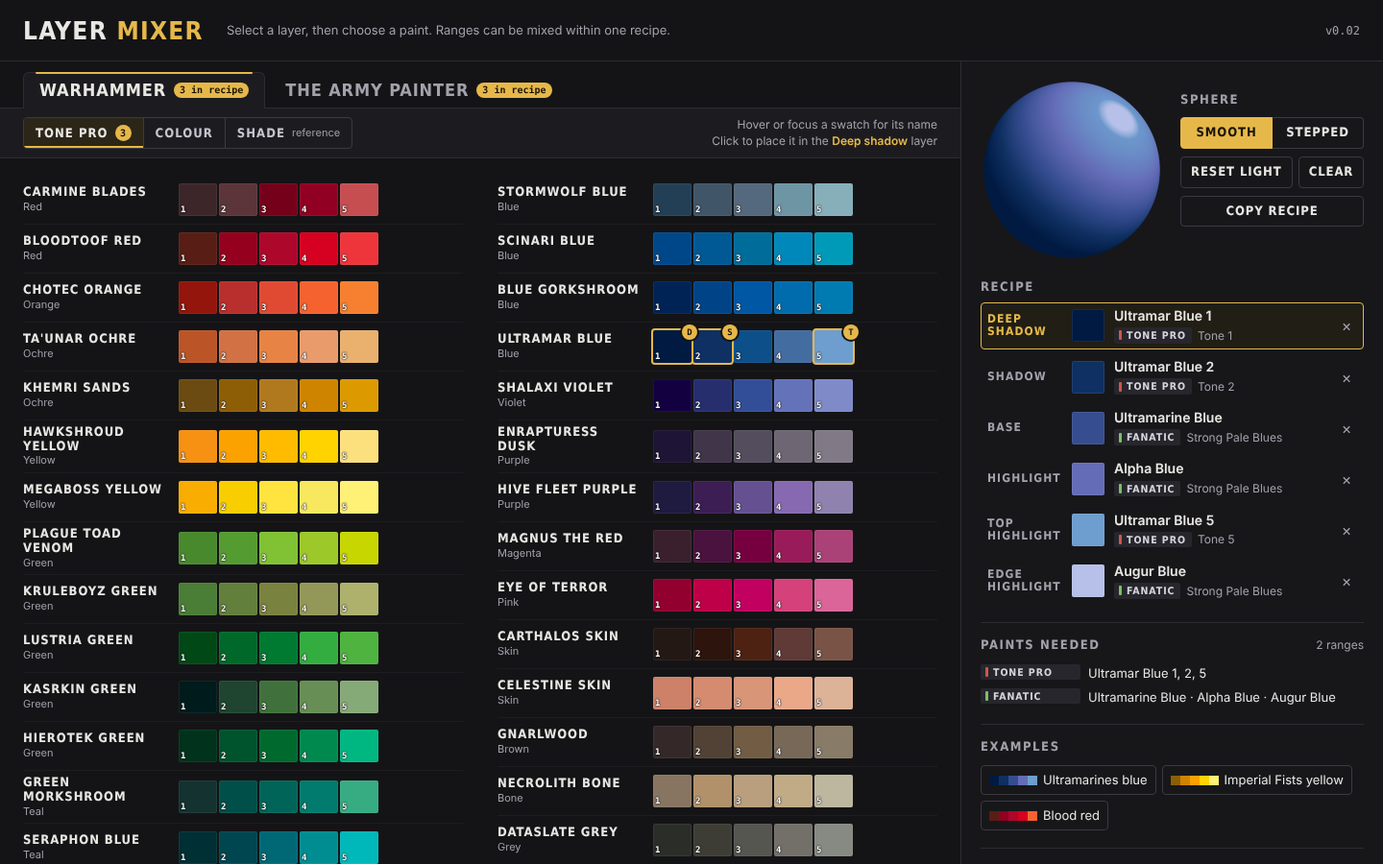
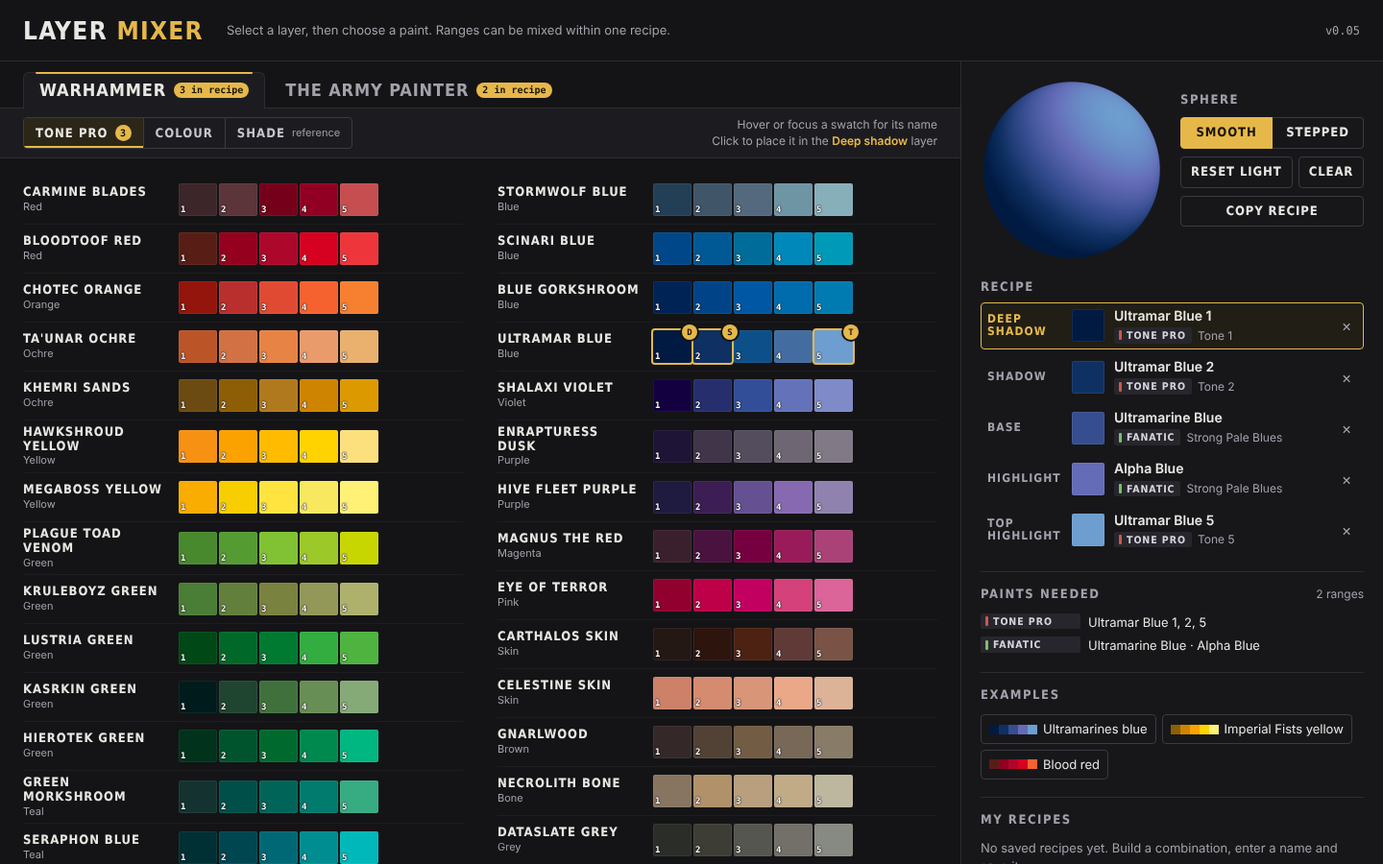
v0.05: remove edge highlight layer
Claude-Session: https://claude.ai/code/session_01JPW2BsCcmNcd3VEob4xsxp

Changed region(s): [[0.6875, 0.6533, 0.9688, 0.9956], [0.7812, 0.0933, 0.8438, 0.1556]]

diff --git a/dist/layer-mixer.html b/dist/layer-mixer.html
@@ -219,20 +219,20 @@ canvas#sphere.dragging{cursor:grabbing}
 
 <script>
 "use strict";
-const VERSION = "0.04";
+const VERSION = "0.05";
 const RANGE_DATA = [{"id":"tp","brand":"Warhammer","range":"Tone Pro","short":"Tone Pro","color":"#d0574a","numbered":true,"series":true,"rows":[{"label":"Carmine Blades","family":"Red","paints":[{"name":"Carmine Blades 1","hex":"#3c262a"},{"name":"Carmine Blades 2","hex":"#5b3539"},{"name":"Carmine Blades 3","hex":"#750019"},{"name":"Carmine Blades 4","hex":"#910022"},{"name":"Carmine Blades 5","hex":"#c64d50"}]},{"label":"Bloodtoof Red","family":"Red","paints":[{"name":"Bloodtoof Red 1","hex":"#581e16"},{"name":"Bloodtoof Red 2","hex":"#94001e"},{"name":"Bloodtoof Red 3","hex":"#ad072b"},{"name":"Bloodtoof Red 4","hex":"#d60020"},{"name":"Bloodtoof Red 5","hex":"#ef353c"}]},{"label":"Chotec Orange","family":"Orange","paints":[{"name":"Chotec Orange 1","hex":"#93150b"},{"name":"Chotec Orange 2","hex":"#b82f2d"},{"name":"Chotec Orange 3","hex":"#e04a33"},{"name":"Chotec Orange 4","hex":"#f56230"},{"name":"Chotec Orange 5","hex":"#f78030"}]},{"label":"Ta'unar Ochre","family":"Ochre","paints":[{"name":"Ta'unar Ochre 1","hex":"#bb5528"},{"name":"Ta'unar Ochre 2","hex":"#d27144"},{"name":"Ta'unar Ochre 3","hex":"#e78344"},{"name":"Ta'unar Ochre 4","hex":"#ea9b6b"},{"name":"Ta'unar Ochre 5","hex":"#e9b06e"}]},{"label":"Khemri Sands","family":"Ochre","paints":[{"name":"Khemri Sands 1","hex":"#6c4b12"},{"name":"Khemri Sands 2","hex":"#8d5e06"},{"name":"Khemri Sands 3","hex":"#b1791e"},{"name":"Khemri Sands 4","hex":"#cf8400"},{"name":"Khemri Sands 5","hex":"#dc9a00"}]},{"label":"Hawkshroud Yellow","family":"Yellow","paints":[{"name":"Hawkshroud Yellow 1","hex":"#f69113"},{"name":"Hawkshroud Yellow 2","hex":"#fba200"},{"name":"Hawkshroud Yellow 3","hex":"#febb00"},{"name":"Hawkshroud Yellow 4","hex":"#ffd300"},{"name":"Hawkshroud Yellow 5","hex":"#fde07e"}]},{"label":"Megaboss Yellow","family":"Yellow","paints":[{"name":"Megaboss Yellow 1","hex":"#f9ad00"},{"name":"Megaboss Yellow 2","hex":"#f8ce00"},{"name":"Megaboss Yellow 3","hex":"#ffe440"},{"name":"Megaboss Yellow 4","hex":"#f8e85f"},{"name":"Megaboss Yellow 5","hex":"#fff175"}]},{"label":"Plague Toad Venom","family":"Green","paints":[{"name":"Plague Toad Venom 1","hex":"#49892d"},{"name":"Plague Toad Venom 2","hex":"#549b32"},{"name":"Plague Toad Venom 3","hex":"#80c234"},{"name":"Plague Toad Venom 4","hex":"#9cc829"},{"name":"Plague Toad Venom 5","hex":"#c8d600"}]},{"label":"Kruleboyz Green","family":"Green","paints":[{"name":"Kruleboyz Green 1","hex":"#4a7d36"},{"name":"Kruleboyz Green 2","hex":"#627f3c"},{"name":"Kruleboyz Green 3","hex":"#7a823f"},{"name":"Kruleboyz Green 4","hex":"#939859"},{"name":"Kruleboyz Green 5","hex":"#aeb16c"}]},{"label":"Lustria Green","family":"Green","paints":[{"name":"Lustria Green 1","hex":"#004816"},{"name":"Lustria Green 2","hex":"#006929"},{"name":"Lustria Green 3","hex":"#007931"},{"name":"Lustria Green 4","hex":"#34ad40"},{"name":"Lustria Green 5","hex":"#4eb33f"}]},{"label":"Kasrkin Green","family":"Green","paints":[{"name":"Kasrkin Green 1","hex":"#001b1b"},{"name":"Kasrkin Green 2","hex":"#1f4530"},{"name":"Kasrkin Green 3","hex":"#40713c"},{"name":"Kasrkin Green 4","hex":"#678e55"},{"name":"Kasrkin Green 5","hex":"#86a978"}]},{"label":"Hierotek Green","family":"Green","paints":[{"name":"Hierotek Green 1","hex":"#00321c"},{"name":"Hierotek Green 2","hex":"#00542d"},{"name":"Hierotek Green 3","hex":"#006a2e"},{"name":"Hierotek Green 4","hex":"#00894e"},{"name":"Hierotek Green 5","hex":"#00b681"}]},{"label":"Green Morkshroom","family":"Teal","paints":[{"name":"Green Morkshroom 1","hex":"#143230"},{"name":"Green Morkshroom 2","hex":"#004f48"},{"name":"Green Morkshroom 3","hex":"#006458"},{"name":"Green Morkshroom 4","hex":"#007b6d"},{"name":"Green Morkshroom 5","hex":"#37ac83"}]},{"label":"Seraphon Blue","family":"Teal","paints":[{"name":"Seraphon Blue 1","hex":"#002f34"},{"name":"Seraphon Blue 2","hex":"#004650"},{"name":"Seraphon Blue 3","hex":"#006874"},{"name":"Seraphon Blue 4","hex":"#008d92"},{"name":"Seraphon Blue 5","hex":"#00b7b9"}]},{"label":"Craventhrone Cloak","family":"Blue","paints":[{"name":"Craventhrone Cloak 1","hex":"#08232e"},{"name":"Craventhrone Cloak 2","hex":"#12373e"},{"name":"Craventhrone Cloak 3","hex":"#164858"},{"name":"Craventhrone Cloak 4","hex":"#41717d"},{"name":"Craventhrone Cloak 5","hex":"#598a8e"}]},{"label":"Stormwolf Blue","family":"Blue","paints":[{"name":"Stormwolf Blue 1","hex":"#233f55"},{"name":"Stormwolf Blue 2","hex":"#405568"},{"name":"Stormwolf Blue 3","hex":"#54697d"},{"name":"Stormwolf Blue 4","hex":"#6e95a4"},{"name":"Stormwolf Blue 5","hex":"#87afb9"}]},{"label":"Scinari Blue","family":"Blue","paints":[{"name":"Scinari Blue 1","hex":"#004789"},{"name":"Scinari Blue 2","hex":"#005895"},{"name":"Scinari Blue 3","hex":"#006c9a"},{"name":"Scinari Blue 4","hex":"#0088bb"},{"name":"Scinari Blue 5","hex":"#009ab9"}]},{"label":"Blue Gorkshroom","family":"Blue","paints":[{"name":"Blue Gorkshroom 1","hex":"#002356"},{"name":"Blue Gorkshroom 2","hex":"#004487"},{"name":"Blue Gorkshroom 3","hex":"#0057a3"},{"name":"Blue Gorkshroom 4","hex":"#006cad"},{"name":"Blue Gorkshroom 5","hex":"#007bb2"}]},{"label":"Ultramar Blue","family":"Blue","paints":[{"name":"Ultramar Blue 1","hex":"#001a42"},{"name":"Ultramar Blue 2","hex":"#0f3062"},{"name":"Ultramar Blue 3","hex":"#0d4f88"},{"name":"Ultramar Blue 4","hex":"#436ca1"},{"name":"Ultramar Blue 5","hex":"#6d9ecf"}]},{"label":"Shalaxi Violet","family":"Violet","paints":[{"name":"Shalaxi Violet 1","hex":"#130040"},{"name":"Shalaxi Violet 2","hex":"#262e6d"},{"name":"Shalaxi Violet 3","hex":"#324e99"},{"name":"Shalaxi Violet 4","hex":"#6472b9"},{"name":"Shalaxi Violet 5","hex":"#7e8bc8"}]},{"label":"Enrapturess Dusk","family":"Purple","paints":[{"name":"Enrapturess Dusk 1","hex":"#1e1435"},{"name":"Enrapturess Dusk 2","hex":"#413549"},{"name":"Enrapturess Dusk 3","hex":"#534d5e"},{"name":"Enrapturess Dusk 4","hex":"#6e6773"},{"name":"Enrapturess Dusk 5","hex":"#817a86"}]},{"label":"Hive Fleet Purple","family":"Purple","paints":[{"name":"Hive Fleet Purple 1","hex":"#1e1a40"},{"name":"Hive Fleet Purple 2","hex":"#3c1e54"},{"name":"Hive Fleet Purple 3","hex":"#655192"},{"name":"Hive Fleet Purple 4","hex":"#8769b1"},{"name":"Hive Fleet Purple 5","hex":"#8f82ae"}]},{"label":"Magnus the Red","family":"Magenta","paints":[{"name":"Magnus the Red 1","hex":"#3a202d"},{"name":"Magnus the Red 2","hex":"#4a123e"},{"name":"Magnus the Red 3","hex":"#76003f"},{"name":"Magnus the Red 4","hex":"#9a1b59"},{"name":"Magnus the Red 5","hex":"#aa4277"}]},{"label":"Eye of Terror","family":"Pink","paints":[{"name":"Eye of Terror 1","hex":"#920030"},{"name":"Eye of Terror 2","hex":"#bd0047"},{"name":"Eye of Terror 3","hex":"#c20060"},{"name":"Eye of Terror 4","hex":"#d4417b"},{"name":"Eye of Terror 5","hex":"#db6499"}]},{"label":"Carthalos Skin","family":"Skin","paints":[{"name":"Carthalos Skin 1","hex":"#241815"},{"name":"Carthalos Skin 2","hex":"#2d140c"},{"name":"Carthalos Skin 3","hex":"#4e2212"},{"name":"Carthalos Skin 4","hex":"#5f3a37"},{"name":"Carthalos Skin 5","hex":"#795346"}]},{"label":"Celestine Skin","family":"Skin","paints":[{"name":"Celestine Skin 1","hex":"#cd8169"},{"name":"Celestine Skin 2","hex":"#d58b70"},{"name":"Celestine Skin 3","hex":"#d99578"},{"name":"Celestine Skin 4","hex":"#eaa889"},{"name":"Celestine Skin 5","hex":"#ddb398"}]},{"label":"Gnarlwood","family":"Brown","paints":[{"name":"Gnarlwood 1","hex":"#342928"},{"name":"Gnarlwood 2","hex":"#514235"},{"name":"Gnarlwood 3","hex":"#725c44"},{"name":"Gnarlwood 4","hex":"#776857"},{"name":"Gnarlwood 5","hex":"#887b67"}]},{"label":"Necrolith Bone","family":"Bone","paints":[{"name":"Necrolith Bone 1","hex":"#877561"},{"name":"Necrolith Bone 2","hex":"#b0916a"},{"name":"Necrolith Bone 3","hex":"#b99f7d"},{"name":"Necrolith Bone 4","hex":"#c1ab86"},{"name":"Necrolith Bone 5","hex":"#bcb79e"}]},{"label":"Dataslate Grey","family":"Grey","paints":[{"name":"Dataslate Grey 1","hex":"#2b2d28"},{"name":"Dataslate Grey 2","hex":"#3e3d35"},{"name":"Dataslate Grey 3","hex":"#555650"},{"name":"Dataslate Grey 4","hex":"#737069"},{"name":"Dataslate Grey 5","hex":"#878983"}]},{"label":"Blackstone Void","family":"Grey","paints":[{"name":"Blackstone Void 1","hex":"#000208"},{"name":"Blackstone Void 2","hex":"#4e5458"},{"name":"Blackstone Void 3","hex":"#6e7074"},{"name":"Blackstone Void 4","hex":"#9b9d9f"},{"name":"Blackstone Void 5","hex":"#ffffff"}]}]},{"id":"wc","brand":"Warhammer","range":"Colour","short":"Colour","color":"#5b9bd5","rows":[{"label":"Yellow","paints":[{"name":"Averland Sunset","hex":"#c88637","type":"Base"},{"name":"Yriel Yellow","hex":"#f5a114","type":"Layer"},{"name":"Flash Gitz Yellow","hex":"#f7ba0a","type":"Layer"},{"name":"Phalanx Yellow","hex":"#f8d229","type":"Layer"},{"name":"Dorn Yellow","hex":"#f2da87","type":"Layer"}]},{"label":"Orange","paints":[{"name":"Jokaero Orange","hex":"#bd6240","type":"Base"},{"name":"Trollslayer Orange","hex":"#e4491a","type":"Layer"},{"name":"Fire Dragon Bright","hex":"#f36b2a","type":"Layer"},{"name":"Lugganath Orange","hex":"#f79069","type":"Layer"}]},{"label":"Red","paints":[{"name":"Barak-Nar Burgundy","hex":"#351e28","type":"Base"},{"name":"Gal Vorbak Red","hex":"#421a20","type":"Base"},{"name":"Khorne Red","hex":"#612025","type":"Base"},{"name":"Word Bearers Red","hex":"#6a2220","type":"Layer"},{"name":"Mephiston Red","hex":"#972c28","type":"Base"},{"name":"Wazdakka Red","hex":"#a6383e","type":"Layer"},{"name":"Evil Sunz Scarlet","hex":"#b72a2c","type":"Layer"},{"name":"Squig Orange","hex":"#b7574d","type":"Layer"},{"name":"Wild Rider Red","hex":"#de3d36","type":"Layer"}]},{"label":"Pink","paints":[{"name":"Screamer Pink","hex":"#5c1c30","type":"Base"},{"name":"Perisher Pink","hex":"#a6414f","type":"Base/Layer"},{"name":"Pink Horror","hex":"#ba4957","type":"Layer"},{"name":"Emperor's Children","hex":"#e6659d","type":"Layer"},{"name":"Fulgrim Pink","hex":"#f2ade3","type":"Layer"}]},{"label":"Purple","paints":[{"name":"Naggaroth Night","hex":"#201a31","type":"Base"},{"name":"Phoenician Purple","hex":"#2f2346","type":"Base"},{"name":"Xereus Purple","hex":"#382445","type":"Layer"},{"name":"Daemonette Hide","hex":"#4c445d","type":"Base"},{"name":"Genestealer Purple","hex":"#734e93","type":"Layer"},{"name":"Warpfiend Grey","hex":"#645c74","type":"Base/Layer"},{"name":"Kakophoni Purple","hex":"#996da2","type":"Layer"},{"name":"Slaanesh Grey","hex":"#897f98","type":"Layer"},{"name":"Dechala Lilac","hex":"#ae99db","type":"Layer"}]},{"label":"Blue","paints":[{"name":"Night Lords Blue","hex":"#101827","type":"Base"},{"name":"Kantor Blue","hex":"#132034","type":"Base"},{"name":"Macragge Blue","hex":"#1a2f67","type":"Base"},{"name":"Altdorf Guard Blue","hex":"#243e7f","type":"Layer"},{"name":"Alaitoc Blue","hex":"#12446e","type":"Layer"},{"name":"Caledor Sky","hex":"#034a96","type":"Base"},{"name":"Hoeth Blue","hex":"#035f9f","type":"Layer"},{"name":"Teclis Blue","hex":"#0574bb","type":"Layer"},{"name":"Calgar Blue","hex":"#4d70c3","type":"Layer"},{"name":"Lothern Blue","hex":"#3d9ac8","type":"Layer"},{"name":"Baharroth Blue","hex":"#37b6d0","type":"Layer"},{"name":"Blue Horror","hex":"#92b7d4","type":"Layer"}]},{"label":"Blue-grey","paints":[{"name":"Dark Reaper","hex":"#2a3740","type":"Layer"},{"name":"The Fang","hex":"#2f3e58","type":"Base"},{"name":"Thunderhawk Blue","hex":"#2e4b59","type":"Layer"},{"name":"Russ Grey","hex":"#4d6681","type":"Layer"},{"name":"Fenrisian Grey","hex":"#5e7c95","type":"Layer"}]},{"label":"Turquoise","paints":[{"name":"Incubi Darkness","hex":"#13262b","type":"Base"},{"name":"Stegadon Scale Green","hex":"#1c2e3a","type":"Base"},{"name":"Kabalite Green","hex":"#014a42","type":"Layer"},{"name":"Thousand Sons Blue","hex":"#014c73","type":"Base"},{"name":"Sotek Green","hex":"#01566b","type":"Layer"},{"name":"Ahriman Blue","hex":"#00667e","type":"Layer"},{"name":"Sybarite Green","hex":"#299072","type":"Layer"},{"name":"Temple Guard Blue","hex":"#0197b8","type":"Layer"}]},{"label":"Dark green","paints":[{"name":"Nocturne Green","hex":"#1c2120","type":"Base"},{"name":"Caliban Green","hex":"#162d28","type":"Base"},{"name":"Vulkan Green","hex":"#222f25","type":"Layer"},{"name":"Loren Forest","hex":"#444e36","type":"Layer"},{"name":"Warpstone Glow","hex":"#05612e","type":"Layer"},{"name":"Moot Green","hex":"#5f9d35","type":"Layer"},{"name":"Gauss Blaster Green","hex":"#80d6bd","type":"Layer"}]},{"label":"Grey-green","paints":[{"name":"Lupercal Green","hex":"#122e32","type":"Base"},{"name":"Sons of Horus Green","hex":"#325257","type":"Layer"}]},{"label":"Orc green","paints":[{"name":"Waaagh! Flesh","hex":"#31473a","type":"Base"},{"name":"Warboss Green","hex":"#486d43","type":"Layer"},{"name":"Orruk Flesh","hex":"#7f8c51","type":"Base"},{"name":"Skarsnik Green","hex":"#779459","type":"Layer"}]},{"label":"Olive","paints":[{"name":"Castellan Green","hex":"#303324","type":"Base"},{"name":"Deathworld Forest","hex":"#4e4a2f","type":"Base"},{"name":"Death Guard Green","hex":"#666547","type":"Base"},{"name":"Elysian Green","hex":"#6c6b33","type":"Layer"},{"name":"Straken Green","hex":"#686d4a","type":"Layer"},{"name":"Nurgling Green","hex":"#83895b","type":"Layer"},{"name":"Ogryn Camo","hex":"#a19358","type":"Layer"}]},{"label":"Ochre","paints":[{"name":"XV-88","hex":"#79573b","type":"Base"},{"name":"Balor Brown","hex":"#996426","type":"Layer"},{"name":"Tau Light Ochre","hex":"#c67e4a","type":"Layer"}]},{"label":"Khaki","paints":[{"name":"Death Korps Drab","hex":"#2b2b25","type":"Base"},{"name":"Gorthor Brown","hex":"#5b3e37","type":"Layer"},{"name":"Steel Legion Drab","hex":"#685342","type":"Base"},{"name":"Baneblade Brown","hex":"#766356","type":"Layer"},{"name":"Tallarn Sand","hex":"#856c4d","type":"Layer"},{"name":"Hobgrot Hide","hex":"#997949","type":"Base"},{"name":"Krieg Khaki","hex":"#aca97a","type":"Layer"}]},{"label":"Brown","paints":[{"name":"Rhinox Hide","hex":"#211312","type":"Base"},{"name":"Thondia Brown","hex":"#30221d","type":"Base"},{"name":"Doombull Brown","hex":"#471a14","type":"Layer"},{"name":"Dryad Bark","hex":"#342928","type":"Base"},{"name":"Mournfang Brown","hex":"#533221","type":"Base"},{"name":"Skrag Brown","hex":"#894025","type":"Layer"},{"name":"Tuskgor Fur","hex":"#8f4338","type":"Layer"},{"name":"Deathclaw Brown","hex":"#a35637","type":"Layer"}]},{"label":"Bone","paints":[{"name":"Karak Stone","hex":"#96816b","type":"Layer"},{"name":"Zandri Dust","hex":"#9d8063","type":"Base"},{"name":"Zamesi Desert","hex":"#b38248","type":"Layer"},{"name":"Morghast Bone","hex":"#bca184","type":"Base"},{"name":"Ushabti Bone","hex":"#c0a983","type":"Layer"},{"name":"Wraithbone","hex":"#cac0af","type":"Base"},{"name":"Screaming Skull","hex":"#d2c0a2","type":"Layer"}]},{"label":"Skin","paints":[{"name":"Catachan Flesh","hex":"#392520","type":"Base"},{"name":"Bloodreaver Flesh","hex":"#4e2e2a","type":"Layer"},{"name":"Knight-Questor Flesh","hex":"#704a42","type":"Layer"},{"name":"Bugman's Glow","hex":"#895955","type":"Base"},{"name":"Ratskin Flesh","hex":"#b35d3d","type":"Base"},{"name":"Cadian Fleshtone","hex":"#ab6f5d","type":"Layer"},{"name":"Rakarth Flesh","hex":"#948278","type":"Base"},{"name":"Bestigor Flesh","hex":"#d6793e","type":"Layer"},{"name":"Ionrach Skin","hex":"#a29f84","type":"Base"},{"name":"Kislev Flesh","hex":"#c99370","type":"Layer"},{"name":"Ungor Flesh","hex":"#de9652","type":"Layer"},{"name":"Deepkin Flesh","hex":"#b7bcad","type":"Layer"},{"name":"Flayed One Flesh","hex":"#d1b89a","type":"Layer"},{"name":"Pallid Wych Flesh","hex":"#d3c6be","type":"Layer"}]},{"label":"Black, grey & white","paints":[{"name":"Abaddon Black","hex":"#171516","type":"Base"},{"name":"Corvus Black","hex":"#181c20","type":"Base"},{"name":"Eshin Grey","hex":"#2e3035","type":"Layer"},{"name":"Skavenblight Dinge","hex":"#363639","type":"Layer"},{"name":"Mechanicus Standard Grey","hex":"#414a51","type":"Base"},{"name":"Stormvermin Fur","hex":"#565551","type":"Layer"},{"name":"Dawnstone","hex":"#5b5f69","type":"Layer"},{"name":"Administratum Grey","hex":"#898e92","type":"Layer"},{"name":"Grey Seer","hex":"#9ea2a3","type":"Base"},{"name":"Celestra Grey","hex":"#96a4a7","type":"Base"},{"name":"Corax White","hex":"#b7bcc1","type":"Base"},{"name":"Ulthuan Grey","hex":"#c2cacd","type":"Layer"},{"name":"Ceramite White","hex":"#e9edef","type":"Base/Layer"},{"name":"White Scar","hex":"#ebeff0","type":"Layer"}]},{"label":"Silver & steel","paints":[{"name":"Iron Warriors","hex":"#3d3b39","type":"Base","info":true},{"name":"Leadbelcher","hex":"#6c6b69","type":"Base","info":true},{"name":"Iron Hands Steel","hex":"#868584","type":"Base","info":true},{"name":"Grey Knights Steel","hex":"#8499a9","type":"Base","info":true},{"name":"Ironbreaker","hex":"#96979b","type":"Layer","info":true},{"name":"Runefang Steel","hex":"#a6aab0","type":"Layer","info":true},{"name":"Stormhost Silver","hex":"#afb3b8","type":"Layer","info":true}],"family":"Metallic"},{"label":"Gold & brass","paints":[{"name":"Balthasar Gold","hex":"#7b4536","type":"Base","info":true},{"name":"Gehenna's Gold","hex":"#9e5210","type":"Layer","info":true},{"name":"Runelord Brass","hex":"#9e7c67","type":"Base","info":true},{"name":"Retributor Armour","hex":"#bd7c2f","type":"Base","info":true},{"name":"Liberator Gold","hex":"#b18d5c","type":"Layer","info":true},{"name":"Skullcrusher Brass","hex":"#c98538","type":"Layer","info":true},{"name":"Auric Armour Gold","hex":"#c38b31","type":"Layer","info":true},{"name":"Canoptek Alloy","hex":"#bda795","type":"Layer","info":true}],"family":"Metallic"},{"label":"Bronze & copper","paints":[{"name":"Warplock Bronze","hex":"#231110","type":"Base","info":true},{"name":"Castellax Bronze","hex":"#523423","info":true},{"name":"Screaming Bell","hex":"#87341a","type":"Base","info":true},{"name":"Brass Scorpion","hex":"#a0593b","type":"Layer","info":true},{"name":"Hashut Copper","hex":"#aa6235","type":"Layer","info":true},{"name":"Sycorax Bronze","hex":"#a67764","type":"Layer","info":true},{"name":"Fulgurite Copper","hex":"#c3743c","type":"Layer","info":true}],"family":"Metallic"}]},{"id":"ws","brand":"Warhammer","range":"Shade","short":"Shade","color":"#c98bd6","info":true,"translucent":true,"rows":[{"label":"Shades","paints":[{"name":"Nuln Oil Gloss","hex":"#1f1f22"},{"name":"Carroburg Crimson","hex":"#54232e"},{"name":"Drakenhof Nightshade","hex":"#34414c"},{"name":"Agrax Earthshade","hex":"#563d2f"},{"name":"Berserker Bloodshade","hex":"#683b34"},{"name":"Cryptek Armourshade Gloss","hex":"#5a4a30"},{"name":"Coelia Greenshade","hex":"#305655"},{"name":"Druchii Violet","hex":"#6c426f"},{"name":"Targor Rageshade","hex":"#694f4f"},{"name":"Athonian Camoshade","hex":"#695731"},{"name":"Reikland Fleshshade Gloss","hex":"#8a4a2a"},{"name":"Poxwalker","hex":"#3b6c57"},{"name":"Nuln Oil","hex":"#6e6461"},{"name":"Tyran Blue","hex":"#346cc4"},{"name":"Reikland Fleshshade","hex":"#a6654b"},{"name":"Kroak Green","hex":"#757d52"},{"name":"Biel-Tan Green","hex":"#46884b"},{"name":"Agrax Earthshade Gloss","hex":"#997564"},{"name":"Soulblight Grey","hex":"#888180"},{"name":"Fuegan Orange","hex":"#e55e28"},{"name":"Seraphim Sepia","hex":"#bf7a48"},{"name":"Casandora Yellow","hex":"#eb841b"},{"name":"Mortarion Grime","hex":"#c7a776"}]}]},{"id":"wf","brand":"The Army Painter","range":"Warpaints Fanatic","short":"Fanatic","color":"#7cbf6a","series":true,"rows":[{"label":"Yellows","paints":[{"name":"Sunburst Ochre","hex":"#a75525"},{"name":"Demigod Flames","hex":"#c77c3f"},{"name":"Fiendish Yellow","hex":"#dd9838"},{"name":"Daemonic Yellow","hex":"#efb72a"},{"name":"Warped Yellow","hex":"#f3c541"},{"name":"Space Dust","hex":"#f9d672"},{"name":"Ice Yellow","hex":"#f0dda4"}]},{"label":"Oranges","paints":[{"name":"Molten Lava","hex":"#ee4527"},{"name":"Burning Ore","hex":"#f3562b"},{"name":"Lava Orange","hex":"#eb6932"},{"name":"Flickering Flame","hex":"#ec772d"},{"name":"Glowing Inferno","hex":"#f18d2a"},{"name":"Inner Light","hex":"#fbac38"}]},{"label":"Warm Reds","paints":[{"name":"Resplendent Red","hex":"#bd3933"},{"name":"Angelic Red","hex":"#e93f38"},{"name":"Legendary Red","hex":"#ef574b"},{"name":"Sacred Scarlet","hex":"#fd5e55"},{"name":"Violent Vermilion","hex":"#fc776a"},{"name":"Raging Rouge","hex":"#fa8e7f"}]},{"label":"Cool Reds","paints":[{"name":"Basilisk Red","hex":"#701c2f"},{"name":"Wyvern Fury","hex":"#91192e"},{"name":"Dragon Red","hex":"#a90d24"},{"name":"Pure Red","hex":"#d6041f"},{"name":"Blood Chalice","hex":"#cd3647"},{"name":"Raging Rose","hex":"#e74866"}]},{"label":"Pinks","paints":[{"name":"Wicked Pink","hex":"#bb236b"},{"name":"Impish Rouge","hex":"#d84696"},{"name":"Pixie Pink","hex":"#e569af"},{"name":"Weird Elixir","hex":"#e88cc0"},{"name":"Pink Potion","hex":"#eba3d1"},{"name":"Doomfire Drab","hex":"#dfc3d9"}]},{"label":"Purples","paints":[{"name":"Terrestrial Titan","hex":"#35313b"},{"name":"Alien Purple","hex":"#664e7f"},{"name":"Cultist Purple","hex":"#8862a1"},{"name":"Hexed Violet","hex":"#ae8fc1"},{"name":"Violet Coven","hex":"#c1a6d0"},{"name":"Kraken Lavender","hex":"#f4dcfb"}]},{"label":"Magentas","paints":[{"name":"Diabolic Plum","hex":"#5d3163"},{"name":"Magecast Magenta","hex":"#602a69"},{"name":"Warlock Magenta","hex":"#7a2e79"},{"name":"Spellbound Fuchsia","hex":"#a63585"},{"name":"Enchanted Pink","hex":"#b75097"},{"name":"Diviner Light","hex":"#e59ccd"}]},{"label":"Desaturated Violets","paints":[{"name":"Blanched Berry","hex":"#4d2027"},{"name":"Mulled Berry","hex":"#63323e"},{"name":"Moldy Wine","hex":"#763e4b"},{"name":"Elder Flower","hex":"#b66387"},{"name":"Forbidden Fruit","hex":"#ce93ad"},{"name":"Figgy Pink","hex":"#d9a7bd"},{"name":"Wilted Rose","hex":"#d5abb9"}]},{"label":"Desaturated Blue-Greys","paints":[{"name":"Night Sky","hex":"#323e4f"},{"name":"Thunderous Blue","hex":"#44516a"},{"name":"Stratos Blue","hex":"#536887"},{"name":"Wolf Grey","hex":"#6e85a5"},{"name":"Runic Cobalt","hex":"#8fa2c2"},{"name":"Frost Blue","hex":"#acb7d3"}]},{"label":"Strong Pale Blues","paints":[{"name":"Triumphant Navy","hex":"#333c5e"},{"name":"Gothic Blue","hex":"#343f7a"},{"name":"Ultramarine Blue","hex":"#364d90"},{"name":"Alpha Blue","hex":"#646cb7"},{"name":"Baron Blue","hex":"#848ecb"},{"name":"Augur Blue","hex":"#b6c0e8"}]},{"label":"Vivid Blues","paints":[{"name":"Imperial Navy","hex":"#1b3d63"},{"name":"Regal Blue","hex":"#144590"},{"name":"Royal Blue","hex":"#024da9"},{"name":"Crystal Blue","hex":"#006fce"},{"name":"Arctic Gem","hex":"#46a3ed"},{"name":"Bright Sapphire","hex":"#89c4e4"}]},{"label":"Deep Green-Blues","paints":[{"name":"The Darkness","hex":"#252d37"},{"name":"Deep Ocean Blue","hex":"#2c4251"},{"name":"Abyssal Blue","hex":"#144e62"},{"name":"Tidal Blue","hex":"#216b84"},{"name":"Phalanx Blue","hex":"#348ea8"},{"name":"Shieldwall Blue","hex":"#55a5be"},{"name":"Aegis Aqua","hex":"#7cbdd3"}]},{"label":"Turquoises","paints":[{"name":"Deep Azure","hex":"#007680"},{"name":"Hydra Turquoise","hex":"#019eab"},{"name":"Turquoise Siren","hex":"#27a7ba"},{"name":"Aquamarine","hex":"#69c0cc"},{"name":"Neptune Glow","hex":"#93d2db"},{"name":"Marine Mist","hex":"#a9dad6"}]},{"label":"Teals","paints":[{"name":"Scarab Green","hex":"#274446"},{"name":"Temple Gate Teal","hex":"#1f6861"},{"name":"Pharaoh Guard","hex":"#258e7f"},{"name":"Talisman Teal","hex":"#00a38e"},{"name":"Aqua Alchemy","hex":"#2abcab"},{"name":"Amulet Aqua","hex":"#75dbc6"}]},{"label":"Deep Greens","paints":[{"name":"Blighted Green","hex":"#1f332d"},{"name":"Angel Green","hex":"#214840"},{"name":"Guardian Green","hex":"#24513f"},{"name":"Greenskin","hex":"#196b40"},{"name":"Eternal Hunt","hex":"#3e8d54"},{"name":"Wild Green","hex":"#5faf6f"},{"name":"Ferocious Green","hex":"#93ce98"}]},{"label":"Vibrant Greens","paints":[{"name":"Emerald Forest","hex":"#56b254"},{"name":"Leafy Green","hex":"#81c046"},{"name":"Rainforest","hex":"#a1cb39"},{"name":"Electric Lime","hex":"#b6cd33"},{"name":"Vivid Volt","hex":"#dce153"},{"name":"Afterglow","hex":"#d9d99c"}]},{"label":"Desaturated Cool Greens","paints":[{"name":"Evergreen Fog","hex":"#3a5954"},{"name":"Medieval Forest","hex":"#617d6f"},{"name":"Patagon Pine","hex":"#809484"},{"name":"Autumn Sage","hex":"#8da698"},{"name":"Forest Faun","hex":"#9fbba9"},{"name":"Mossy Green","hex":"#bcd0c4"}]},{"label":"Olive Greens","paints":[{"name":"Midnight Olive","hex":"#3b4034"},{"name":"Woodland Camo","hex":"#555c48"},{"name":"Army Green","hex":"#5b674f"},{"name":"Camouflage Green","hex":"#6a745c"},{"name":"Olive Drab","hex":"#717c65"},{"name":"Necrotic Flesh","hex":"#aca988"},{"name":"Grotesque Green","hex":"#baba96"}]},{"label":"Browns","paints":[{"name":"Brigandine Brown","hex":"#514a47"},{"name":"Bootstrap Brown","hex":"#5c4943"},{"name":"Leather Brown","hex":"#725144"},{"name":"Paratrooper Tan","hex":"#a47a67"},{"name":"Command Khaki","hex":"#bd9885"},{"name":"Urban Buff","hex":"#ceab9c"}]},{"label":"Ochres & Tans","paints":[{"name":"Tainted Garden","hex":"#554e31"},{"name":"Tundra Taupe","hex":"#655e49"},{"name":"Prairie Ochre","hex":"#7d6c43"},{"name":"Desert Yellow","hex":"#957745"},{"name":"Wasteland Clay","hex":"#b68947"},{"name":"Burnt Turf","hex":"#c5a161"},{"name":"Barren Dune","hex":"#dab77c"}]},{"label":"Light Neutrals","paints":[{"name":"Dusty Skull","hex":"#917f67"},{"name":"Tomb King Tan","hex":"#b1a285"},{"name":"Skeleton Bone","hex":"#c4b59a"},{"name":"Ancient Stone","hex":"#cdb9a8"},{"name":"Bony Spikes","hex":"#dfcab5"},{"name":"Pale Sand","hex":"#ebd9ca"}]},{"label":"Ruddy Browns","paints":[{"name":"Banshee Brown","hex":"#362120"},{"name":"Oak Brown","hex":"#493431"},{"name":"Tree Ancient","hex":"#533733"},{"name":"Dryad Brown","hex":"#674038"},{"name":"Fur Brown","hex":"#8b4c43"},{"name":"Ruddy Umber","hex":"#bb6b59"},{"name":"Buffed Hide","hex":"#ce8273"}]},{"label":"Rose Skin Tones","paints":[{"name":"Moonstone Skin","hex":"#c56b61"},{"name":"Agate Skin","hex":"#d0786e"},{"name":"Barbarian Flesh","hex":"#d98e76"},{"name":"Ruby Skin","hex":"#e09d96"},{"name":"Opal Skin","hex":"#efc4be"},{"name":"Pearl Skin","hex":"#fcdde1"}]},{"label":"Warm Skin Tones","paints":[{"name":"Carnelian Skin","hex":"#562f30"},{"name":"Tiger's Eye Skin","hex":"#824a4c"},{"name":"Topaz Skin","hex":"#c15e54"},{"name":"Jasper Skin","hex":"#cc7c78"},{"name":"Tourmaline Skin","hex":"#dd948e"},{"name":"Leopard Stone Skin","hex":"#eab7b9"}]},{"label":"Deep Skin Tones","paints":[{"name":"Obsidian Skin","hex":"#594f4f"},{"name":"Onyx Skin","hex":"#785d59"},{"name":"Mocca Skin","hex":"#8f7266"},{"name":"Amber Skin","hex":"#c6a080"},{"name":"Dorado Skin","hex":"#d7b8a4"},{"name":"Quartz Skin","hex":"#dac5b8"}]},{"label":"Black & Greys","paints":[{"name":"Matt Black","hex":"#161516"},{"name":"Ironclad Grey","hex":"#2e2e36"},{"name":"Deep Grey","hex":"#454753"},{"name":"Uniform Grey","hex":"#697682"},{"name":"Ash Grey","hex":"#979fa2"},{"name":"Company Grey","hex":"#b8c1c9"},{"name":"Brigade Grey","hex":"#d1d5db"}]},{"label":"Warm Greys & White","paints":[{"name":"Grey Castle","hex":"#939489"},{"name":"Gargoyle Grey","hex":"#a39f8e"},{"name":"Great Hall Grey","hex":"#bab7a8"},{"name":"Worn Stone","hex":"#d0cdbd"},{"name":"Brainmatter Beige","hex":"#e6e5da"},{"name":"Matt White","hex":"#f4f6f4"}]}]}];
 
 /* Paints are identified as "<range id>:<paint name>" so saved recipes survive reordering of the data files. */
-const SLOT_NAMES = ["Deep shadow","Shadow","Base","Highlight","Top highlight","Edge highlight"];
-const SLOT_ABBR = ["D","S","B","H","T","E"];
+const SLOT_NAMES = ["Deep shadow","Shadow","Base","Highlight","Top highlight"];
+const SLOT_ABBR = ["D","S","B","H","T"];
 const RANGE_COLORS = ["#d0574a","#7cbf6a","#5b9bd5","#c98bd6","#e0a84a","#4fb3a9"];
 const STORE_KEY = "layer-mixer-recipes-v2";
 const OLD_STORE_KEY = "tonepro-rezepte-v1";
 
 const PRESETS = [
-  {name:"Ultramarines blue", layers:["tp:Ultramar Blue 1","tp:Ultramar Blue 2","wf:Ultramarine Blue","wf:Alpha Blue","tp:Ultramar Blue 5","wf:Augur Blue"]},
-  {name:"Imperial Fists yellow", layers:["tp:Khemri Sands 2","tp:Khemri Sands 4","tp:Hawkshroud Yellow 2","tp:Hawkshroud Yellow 4","tp:Megaboss Yellow 5",null]},
-  {name:"Blood red", layers:["tp:Bloodtoof Red 1","tp:Carmine Blades 4","tp:Bloodtoof Red 3","tp:Bloodtoof Red 4","tp:Chotec Orange 4",null]}
+  {name:"Ultramarines blue", layers:["tp:Ultramar Blue 1","tp:Ultramar Blue 2","wf:Ultramarine Blue","wf:Alpha Blue","tp:Ultramar Blue 5"]},
+  {name:"Imperial Fists yellow", layers:["tp:Khemri Sands 2","tp:Khemri Sands 4","tp:Hawkshroud Yellow 2","tp:Hawkshroud Yellow 4","tp:Megaboss Yellow 5"]},
+  {name:"Blood red", layers:["tp:Bloodtoof Red 1","tp:Carmine Blades 4","tp:Bloodtoof Red 3","tp:Bloodtoof Red 4","tp:Chotec Orange 4"]}
 ];
 
 /* ---------- data index ---------- */
@@ -251,7 +251,8 @@ const BY_ID = Object.create(null);
 RANGES.forEach(r=>r.rows.forEach(w=>w.paints.forEach(p=>{ BY_ID[p.id]=p; })));
 const RANGE_BY_KEY = Object.fromEntries(RANGES.map(r=>[r.id,r]));
 
-let layers = [null,null,null,null,null,null];
+const EMPTY = ()=>SLOT_NAMES.map(()=>null);
+let layers = EMPTY();
 let active = 0;
 let stepped = false;
 let current = RANGES[0].id;
@@ -277,7 +278,7 @@ function lum(h){const [r,g,b]=hexToRgb(h).map(v=>{v/=255;return v<=.03928?v/12.9
 const rtag = key=>el("span",{class:"rtag",style:{"--rc":RANGE_BY_KEY[key].color}},[RANGE_BY_KEY[key].short]);
 const say = t=>{ $("#status").textContent=t; };
 const detail = p=> p.tone ? `Tone ${p.tone}` : p.type ? `${p.type} · ${p.row}` : p.row;
-const cleanLayers = ls=>{ const out=(Array.isArray(ls)?ls:[]).slice(0,6).map(id=>typeof id==="string"&&BY_ID[id]&&!BY_ID[id].info?id:null); while(out.length<6) out.push(null); return out; };
+const cleanLayers = ls=>{ const out=(Array.isArray(ls)?ls:[]).slice(0,SLOT_NAMES.length).map(id=>typeof id==="string"&&BY_ID[id]&&!BY_ID[id].info?id:null); while(out.length<SLOT_NAMES.length) out.push(null); return out; };
 
 /* ---------- brand tabs, range pills, chart ---------- */
 const brandOf = key=>BRANDS.find(b=>b.ranges.includes(key));
@@ -367,7 +368,7 @@ function pick(id){
   const slot=active;
   layers[slot]=id;
   const next=layers.findIndex((l,i)=>i>slot&&!l);
-  if(next!==-1) active=next; else if(slot<5) active=slot+1;
+  if(next!==-1) active=next; else if(slot<SLOT_NAMES.length-1) active=slot+1;
   render(); say("");
 }
 function load(ls){ layers=cleanLayers(ls); active=0; render(); say(""); }
@@ -449,15 +450,13 @@ function colorAt(cols,t){const n=cols.length;if(n===1)return cols[0];
 function drawSphere(){
   const W=cv.width,H=cv.height,R=W/2-6,cx=W/2,cy=H/2;
   ctx.clearRect(0,0,W,H);
-  const cols=layers.slice(0,5).filter(Boolean).map(id=>hexToRgb(BY_ID[id].hex));
+  const cols=layers.filter(Boolean).map(id=>hexToRgb(BY_ID[id].hex));
   if(!cols.length){ctx.strokeStyle="#3a3a42";ctx.setLineDash([10,8]);ctx.lineWidth=3;ctx.beginPath();ctx.arc(cx,cy,R,0,Math.PI*2);ctx.stroke();ctx.setLineDash([]);return;}
-  const spot=layers[5]?hexToRgb(BY_ID[layers[5]].hex):null;
   const img=ctx.createImageData(W,H),d=img.data;const L=light;
   for(let y=0;y<H;y++)for(let x=0;x<W;x++){
     const nx=(x+.5-cx)/R,ny=(y+.5-cy)/R,r2=nx*nx+ny*ny;if(r2>1)continue;
     const nz=Math.sqrt(1-r2);let t=nx*L[0]+ny*L[1]+nz*L[2];t=Math.max(0,Math.min(1,(t+0.35)/1.35));t=Math.pow(t,1.15);
     let c=colorAt(cols,t);
-    if(spot){const k=Math.min(1,Math.max(0,t-0.965)/0.035*1.6);c=[c[0]+(spot[0]-c[0])*k,c[1]+(spot[1]-c[1])*k,c[2]+(spot[2]-c[2])*k];}
     const edge=Math.min(1,(1-Math.sqrt(r2))*R/1.2),o=(y*W+x)*4;d[o]=c[0];d[o+1]=c[1];d[o+2]=c[2];d[o+3]=255*edge;}
   ctx.putImageData(img,0,0);
 }
@@ -511,7 +510,7 @@ $("#btn-copy").addEventListener("click",()=>{
   try{ navigator.clipboard.writeText(t).then(()=>say("Recipe copied to clipboard."),fallback); }catch(e){ fallback(); }
 });
 $("#btn-light").addEventListener("click",()=>setLight(...DEFAULT_LIGHT));
-$("#btn-clear").addEventListener("click",()=>{ layers=[null,null,null,null,null,null]; active=0; render(); say("Recipe cleared."); });
+$("#btn-clear").addEventListener("click",()=>{ layers=EMPTY(); active=0; render(); say("Recipe cleared."); });
 $("#mode-smooth").addEventListener("click",()=>setMode(false));
 $("#mode-steps").addEventListener("click",()=>setMode(true));
 

diff --git a/tests/run-tests.js b/tests/run-tests.js
@@ -51,7 +51,7 @@ const SRC = fs.readFileSync(path.resolve(__dirname, '../src/layer-mixer.html'), 
     assert.equal((await px(190, 190))[3], 0);
     assert.equal(await p.textContent('#lg-layer'), 'Deep shadow');
     const names = await p.locator('.slot .lname').allTextContents();
-    assert.deepEqual(names, ['Deep shadow','Shadow','Base','Highlight','Top highlight','Edge highlight']);
+    assert.deepEqual(names, ['Deep shadow','Shadow','Base','Highlight','Top highlight']);
   });
   await t('Fixed file name without version (recipes survive overwriting)', async () => { assert.equal(BUILT[0], 'layer-mixer.html'); });
   await t('Version shown, credit in footer', async () => { const v = await p.evaluate(() => VERSION); assert.match(v, /^\d+\.\d+$/); assert.equal(await p.textContent('#version'), 'v' + v); assert.equal(await p.textContent('.notes .credit'), `Layer Mixer v${v} · Vibecoded by Duempelhuber`); });
@@ -66,13 +66,11 @@ const SRC = fs.readFileSync(path.resolve(__dirname, '../src/layer-mixer.html'), 
     assert.equal(await p.locator('.inrec[data-k="wf"]').isHidden(), true);
     const c = await px(190, 190); assert.equal(c[3], 255);
   });
-  await t('Auto-advance runs through all six layers incl. edge highlight', async () => {
+  await t('Auto-advance runs through all five layers', async () => {
     await p.click('#btn-clear');
     for (const n of [1,2,3,4,5]) await p.click(sw(`tp:Ultramar Blue ${n}`));
-    assert.equal(await p.textContent('#lg-layer'), 'Edge highlight');
-    await p.click(sw('tp:Blackstone Void 5'));
-    assert.equal(await p.locator('.slot .pname').count(), 6);
-    assert.equal(await p.textContent('#lg-layer'), 'Edge highlight');
+    assert.equal(await p.locator('.slot .pname').count(), 5);
+    assert.equal(await p.textContent('#lg-layer'), 'Top highlight');
     await p.click('#btn-clear'); await p.click(sw('tp:Ultramar Blue 1'));
   });
   await t('Tab switch to Fanatic: 27 strips, 170 swatches, numbered, no extra text', async () => {
@@ -99,7 +97,7 @@ const SRC = fs.readFileSync(path.resolve(__dirname, '../src/layer-mixer.html'), 
     await p.click('#btn-clear');
     await p.click('#presets .chip:has-text("Ultramarines blue")');
     const items = await p.locator('#shop li span:not(.rtag)').allTextContents();
-    assert.deepEqual(items, ['Ultramar Blue 1, 2, 5', 'Ultramarine Blue · Alpha Blue · Augur Blue']);
+    assert.deepEqual(items, ['Ultramar Blue 1, 2, 5', 'Ultramarine Blue · Alpha Blue']);
     await p.click('#btn-clear'); await goRange('tp'); await p.click(sw('tp:Ultramar Blue 1')); await goRange('wf'); await p.click(sw('wf:Alpha Blue'));
   });
   await t('Arrow keys switch tabs and keep recipe marks', async () => {
@@ -130,8 +128,8 @@ const SRC = fs.readFileSync(path.resolve(__dirname, '../src/layer-mixer.html'), 
     assert.equal(await p.getAttribute('.slot[data-slot="1"]', 'aria-pressed'), 'true');
   });
   await t('Selecting a layer by keyboard', async () => {
-    await p.focus('.slot[data-slot="5"]'); await p.keyboard.press('Enter');
-    assert.equal(await p.textContent('#lg-layer'), 'Edge highlight');
+    await p.focus('.slot[data-slot="4"]'); await p.keyboard.press('Enter');
+    assert.equal(await p.textContent('#lg-layer'), 'Top highlight');
   });
 
   await t('All examples load with valid paints, dark → light', async () => {
@@ -140,13 +138,14 @@ const SRC = fs.readFileSync(path.resolve(__dirname, '../src/layer-mixer.html'), 
     for (const x of r) { assert(x.ok, x.n + ' has unknown paint'); for (let i = 1; i < x.l.length; i++) assert(x.l[i] > x.l[i - 1], x.n + ' not ascending'); }
     for (const x of r) { await p.click(`#presets .chip:has-text("${x.n}")`); assert((await filled()) >= 5, x.n); }
   });
-  await t('Edge highlight shows as glint in its own colour', async () => {
-    await p.click('#btn-clear'); await p.click(sw('tp:Dataslate Grey 1')); await p.click('.slot[data-slot="5"]'); await p.click(sw('tp:Blackstone Void 5'));
-    const c = await px(291, 80); assert(c[0] > 235 && c[1] > 235 && c[2] > 235, JSON.stringify(c));
+  await t('No glint: a single paint fills the whole sphere in its own colour', async () => {
+    await p.click('#btn-clear'); await p.click(sw('tp:Dataslate Grey 1'));
+    const c = await px(291, 80); assert(c[0] < 80 && c[1] < 80 && c[2] < 80, JSON.stringify(c));
   });
-  await t('Edge highlight is a normal layer (no "optional" label), picking sets no status text', async () => {
+  await t('Five layers, no edge highlight, picking sets no status text', async () => {
     assert.equal(await p.locator('.optional').count(), 0);
-    assert.equal(await p.locator('.slot').count(), 6);
+    assert.equal(await p.locator('.slot').count(), 5);
+    assert(!(await p.textContent('#recipe')).includes('Edge'));
     assert.equal(await p.textContent('#status'), '');
   });
   const bright = c => c[0] + c[1] + c[2];
@@ -193,7 +192,7 @@ const SRC = fs.readFileSync(path.resolve(__dirname, '../src/layer-mixer.html'), 
     await p.click('#presets .chip:has-text("Ultramarines blue")');
     await p.click('#btn-copy');
     const clip = await p.evaluate(() => navigator.clipboard.readText());
-    assert(clip.startsWith('Deep shadow: Ultramar Blue 1 (Warhammer Tone Pro)') && clip.includes('\nHighlight: Alpha Blue (The Army Painter Warpaints Fanatic)') && clip.includes('Edge highlight: Augur Blue'), clip);
+    assert(clip.startsWith('Deep shadow: Ultramar Blue 1 (Warhammer Tone Pro)') && clip.includes('\nHighlight: Alpha Blue (The Army Painter Warpaints Fanatic)') && clip.includes('Top highlight: Ultramar Blue 5') && !clip.includes('Edge'), clip);
   });
   await t('Clear all', async () => { await p.click('#btn-clear'); assert.equal(await filled(), 0); assert.equal((await px(190, 190))[3], 0); });
 
@@ -204,7 +203,7 @@ const SRC = fs.readFileSync(path.resolve(__dirname, '../src/layer-mixer.html'), 
     assert.equal(await p.locator('#saved img').count(), 0);
     await p.reload();
     assert.equal(await p.locator('#saved .chip').count(), 1);
-    await p.click('#saved .chip'); assert.equal(await filled(), 6);
+    await p.click('#saved .chip'); assert.equal(await filled(), 5);
     await p.click('#saved .del'); assert.equal(await p.locator('#saved .chip').count(), 0);
   });
   await t('Empty recipe is not saved', async () => {
@@ -221,7 +220,7 @@ const SRC = fs.readFileSync(path.resolve(__dirname, '../src/layer-mixer.html'), 
     await p.evaluate(() => { localStorage.clear(); localStorage.setItem('tonepro-rezepte-v1', JSON.stringify([{ name: 'Old one', layers: [['Ultramar Blue', 1], ['Ultramar Blue', 3], null, null, null, ['Blackstone Void', 5]] }])); });
     await p.reload(); await p.click('#saved .chip:has-text("Old one")');
     const names = await p.locator('.slot .pname').allTextContents();
-    assert.deepEqual(names, ['Ultramar Blue 1', 'Ultramar Blue 3', 'Blackstone Void 5']);
+    assert.deepEqual(names, ['Ultramar Blue 1', 'Ultramar Blue 3'], 'old edge highlight is dropped');
     await p.evaluate(() => localStorage.clear());
   });
 

diff --git a/src/layer-mixer.html b/src/layer-mixer.html
@@ -223,16 +223,16 @@ const VERSION = "/*@VERSION@*/";
 const RANGE_DATA = /*@DATA@*/[];
 
 /* Paints are identified as "<range id>:<paint name>" so saved recipes survive reordering of the data files. */
-const SLOT_NAMES = ["Deep shadow","Shadow","Base","Highlight","Top highlight","Edge highlight"];
-const SLOT_ABBR = ["D","S","B","H","T","E"];
+const SLOT_NAMES = ["Deep shadow","Shadow","Base","Highlight","Top highlight"];
+const SLOT_ABBR = ["D","S","B","H","T"];
 const RANGE_COLORS = ["#d0574a","#7cbf6a","#5b9bd5","#c98bd6","#e0a84a","#4fb3a9"];
 const STORE_KEY = "layer-mixer-recipes-v2";
 const OLD_STORE_KEY = "tonepro-rezepte-v1";
 
 const PRESETS = [
-  {name:"Ultramarines blue", layers:["tp:Ultramar Blue 1","tp:Ultramar Blue 2","wf:Ultramarine Blue","wf:Alpha Blue","tp:Ultramar Blue 5","wf:Augur Blue"]},
-  {name:"Imperial Fists yellow", layers:["tp:Khemri Sands 2","tp:Khemri Sands 4","tp:Hawkshroud Yellow 2","tp:Hawkshroud Yellow 4","tp:Megaboss Yellow 5",null]},
-  {name:"Blood red", layers:["tp:Bloodtoof Red 1","tp:Carmine Blades 4","tp:Bloodtoof Red 3","tp:Bloodtoof Red 4","tp:Chotec Orange 4",null]}
+  {name:"Ultramarines blue", layers:["tp:Ultramar Blue 1","tp:Ultramar Blue 2","wf:Ultramarine Blue","wf:Alpha Blue","tp:Ultramar Blue 5"]},
+  {name:"Imperial Fists yellow", layers:["tp:Khemri Sands 2","tp:Khemri Sands 4","tp:Hawkshroud Yellow 2","tp:Hawkshroud Yellow 4","tp:Megaboss Yellow 5"]},
+  {name:"Blood red", layers:["tp:Bloodtoof Red 1","tp:Carmine Blades 4","tp:Bloodtoof Red 3","tp:Bloodtoof Red 4","tp:Chotec Orange 4"]}
 ];
 
 /* ---------- data index ---------- */
@@ -251,7 +251,8 @@ const BY_ID = Object.create(null);
 RANGES.forEach(r=>r.rows.forEach(w=>w.paints.forEach(p=>{ BY_ID[p.id]=p; })));
 const RANGE_BY_KEY = Object.fromEntries(RANGES.map(r=>[r.id,r]));
 
-let layers = [null,null,null,null,null,null];
+const EMPTY = ()=>SLOT_NAMES.map(()=>null);
+let layers = EMPTY();
 let active = 0;
 let stepped = false;
 let current = RANGES[0].id;
@@ -277,7 +278,7 @@ function lum(h){const [r,g,b]=hexToRgb(h).map(v=>{v/=255;return v<=.03928?v/12.9
 const rtag = key=>el("span",{class:"rtag",style:{"--rc":RANGE_BY_KEY[key].color}},[RANGE_BY_KEY[key].short]);
 const say = t=>{ $("#status").textContent=t; };
 const detail = p=> p.tone ? `Tone ${p.tone}` : p.type ? `${p.type} · ${p.row}` : p.row;
-const cleanLayers = ls=>{ const out=(Array.isArray(ls)?ls:[]).slice(0,6).map(id=>typeof id==="string"&&BY_ID[id]&&!BY_ID[id].info?id:null); while(out.length<6) out.push(null); return out; };
+const cleanLayers = ls=>{ const out=(Array.isArray(ls)?ls:[]).slice(0,SLOT_NAMES.length).map(id=>typeof id==="string"&&BY_ID[id]&&!BY_ID[id].info?id:null); while(out.length<SLOT_NAMES.length) out.push(null); return out; };
 
 /* ---------- brand tabs, range pills, chart ---------- */
 const brandOf = key=>BRANDS.find(b=>b.ranges.includes(key));
@@ -367,7 +368,7 @@ function pick(id){
   const slot=active;
   layers[slot]=id;
   const next=layers.findIndex((l,i)=>i>slot&&!l);
-  if(next!==-1) active=next; else if(slot<5) active=slot+1;
+  if(next!==-1) active=next; else if(slot<SLOT_NAMES.length-1) active=slot+1;
   render(); say("");
 }
 function load(ls){ layers=cleanLayers(ls); active=0; render(); say(""); }
@@ -449,15 +450,13 @@ function colorAt(cols,t){const n=cols.length;if(n===1)return cols[0];
 function drawSphere(){
   const W=cv.width,H=cv.height,R=W/2-6,cx=W/2,cy=H/2;
   ctx.clearRect(0,0,W,H);
-  const cols=layers.slice(0,5).filter(Boolean).map(id=>hexToRgb(BY_ID[id].hex));
+  const cols=layers.filter(Boolean).map(id=>hexToRgb(BY_ID[id].hex));
   if(!cols.length){ctx.strokeStyle="#3a3a42";ctx.setLineDash([10,8]);ctx.lineWidth=3;ctx.beginPath();ctx.arc(cx,cy,R,0,Math.PI*2);ctx.stroke();ctx.setLineDash([]);return;}
-  const spot=layers[5]?hexToRgb(BY_ID[layers[5]].hex):null;
   const img=ctx.createImageData(W,H),d=img.data;const L=light;
   for(let y=0;y<H;y++)for(let x=0;x<W;x++){
     const nx=(x+.5-cx)/R,ny=(y+.5-cy)/R,r2=nx*nx+ny*ny;if(r2>1)continue;
     const nz=Math.sqrt(1-r2);let t=nx*L[0]+ny*L[1]+nz*L[2];t=Math.max(0,Math.min(1,(t+0.35)/1.35));t=Math.pow(t,1.15);
     let c=colorAt(cols,t);
-    if(spot){const k=Math.min(1,Math.max(0,t-0.965)/0.035*1.6);c=[c[0]+(spot[0]-c[0])*k,c[1]+(spot[1]-c[1])*k,c[2]+(spot[2]-c[2])*k];}
     const edge=Math.min(1,(1-Math.sqrt(r2))*R/1.2),o=(y*W+x)*4;d[o]=c[0];d[o+1]=c[1];d[o+2]=c[2];d[o+3]=255*edge;}
   ctx.putImageData(img,0,0);
 }
@@ -511,7 +510,7 @@ $("#btn-copy").addEventListener("click",()=>{
   try{ navigator.clipboard.writeText(t).then(()=>say("Recipe copied to clipboard."),fallback); }catch(e){ fallback(); }
 });
 $("#btn-light").addEventListener("click",()=>setLight(...DEFAULT_LIGHT));
-$("#btn-clear").addEventListener("click",()=>{ layers=[null,null,null,null,null,null]; active=0; render(); say("Recipe cleared."); });
+$("#btn-clear").addEventListener("click",()=>{ layers=EMPTY(); active=0; render(); say("Recipe cleared."); });
 $("#mode-smooth").addEventListener("click",()=>setMode(false));
 $("#mode-steps").addEventListener("click",()=>setMode(true));
 

diff --git a/build.py b/build.py
@@ -9,7 +9,7 @@ Add a new paint range by dropping a JSON file into data/ and listing it in RANGE
 """
 import base64, json, pathlib, sys
 
-VERSION = "0.04"
+VERSION = "0.05"
 RANGES = ["warhammer-tone-pro.json", "warhammer-colour.json", "warhammer-shade.json", "army-painter-fanatic.json"]   # tab order; ranges of one brand are grouped
 
 root = pathlib.Path(__file__).parent

diff --git a/README.md b/README.md
@@ -25,7 +25,7 @@ Vibecoded by Duempelhuber.
 
 **In the tool**
 
-- Select a layer in the recipe (Deep shadow, Shadow, Base, Highlight, Top highlight, Edge highlight), then click a paint in the chart.
+- Select a layer in the recipe (Deep shadow, Shadow, Base, Highlight, Top highlight), then click a paint in the chart.
 - Choose a brand with the tabs at the top and a range with the buttons below. Paints you use are marked in the chart.
 - Metallics and shades are listed for reference only and can't be added to a recipe.
 - *Smooth* shows a soft blend, *Stepped* shows the individual layers.
